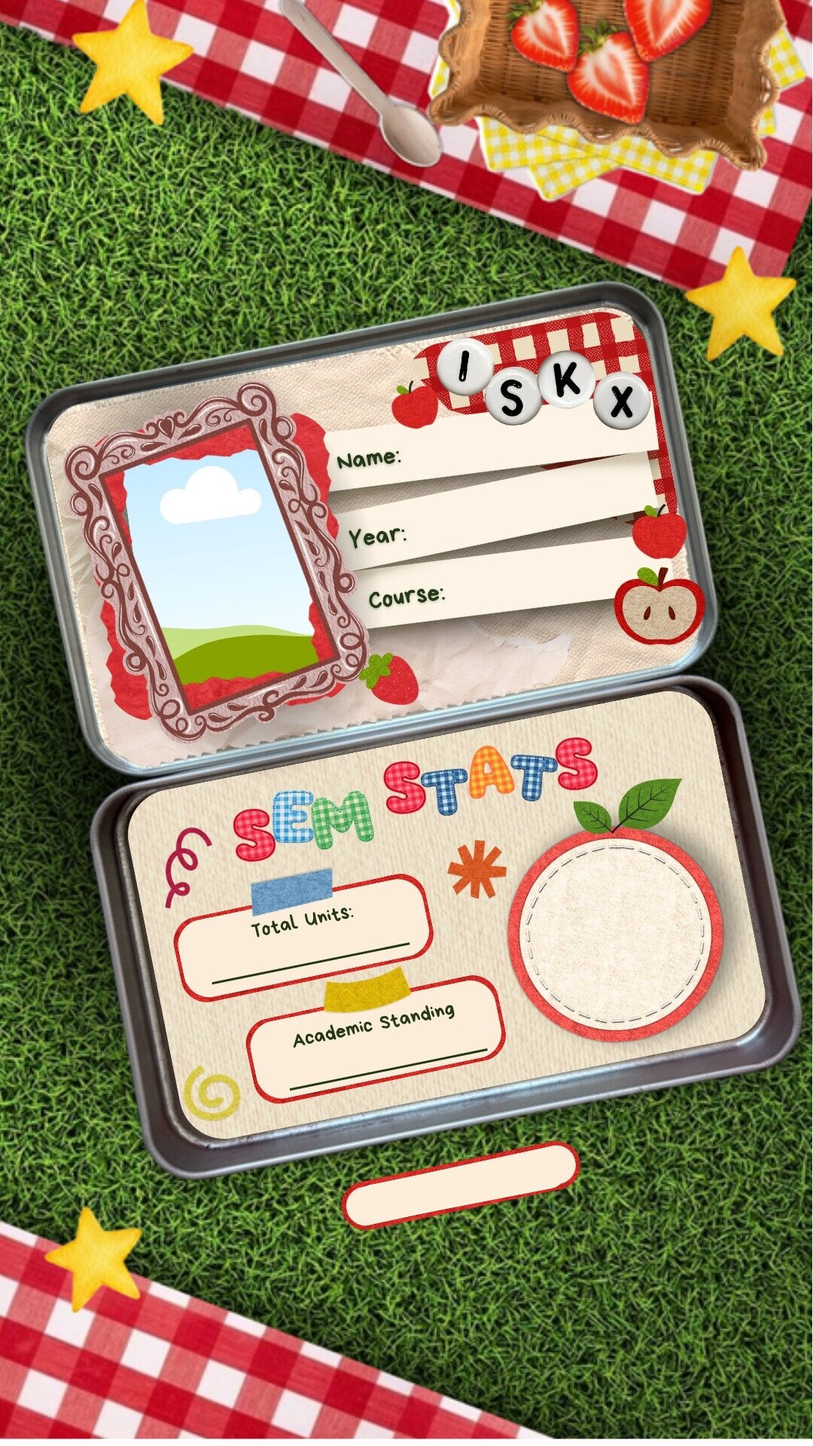
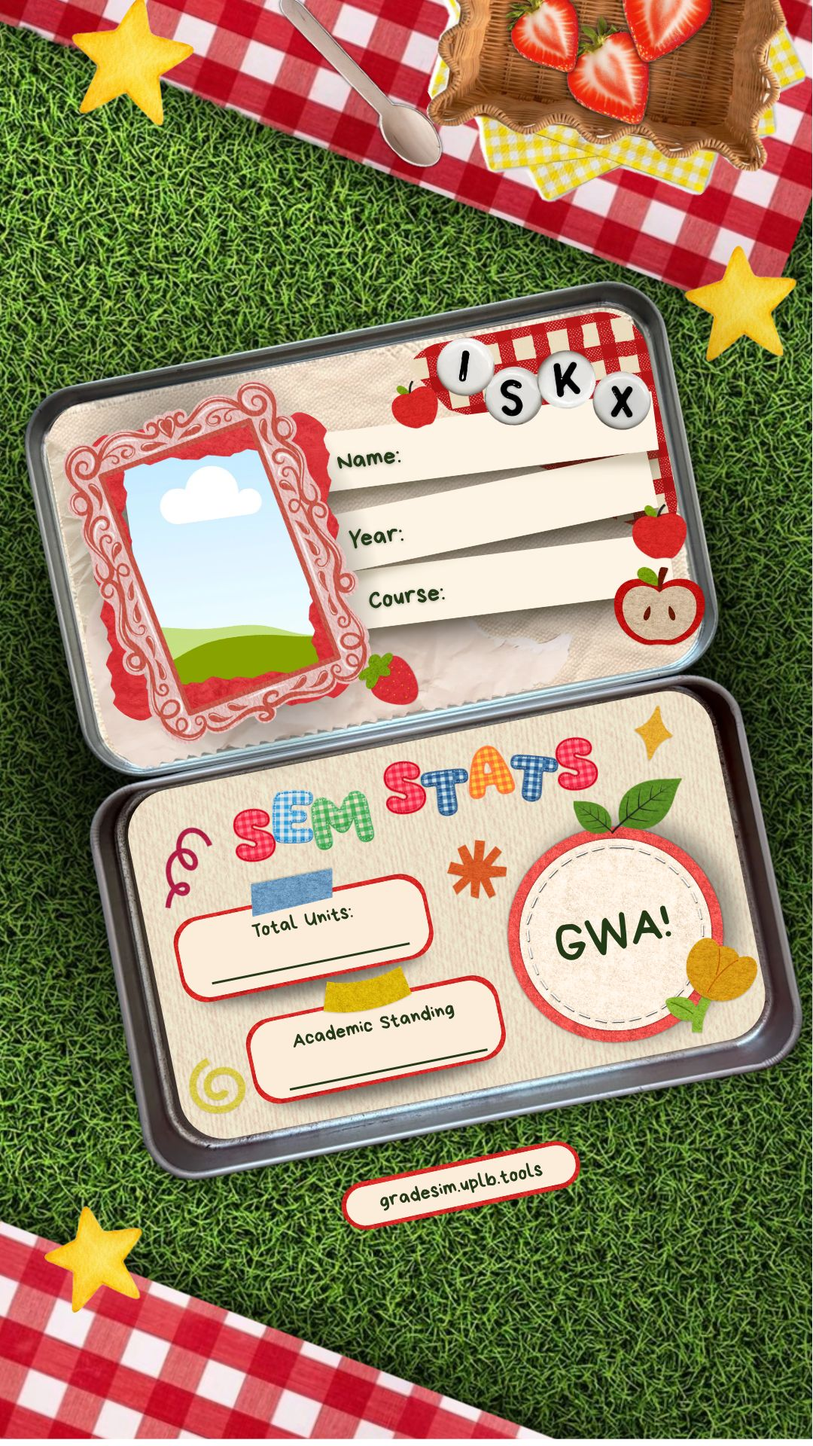
fix(wrapped): updated sem stats art (#329)
* fix(wrapped): updated sem stats art

- Reann's updated SEM STATS tin
- the GWA label and the link are printed on the art, so they're no longer drawn
- the GWA and the hidden-GWA star fit the new tray
- changelog section 2.1.35

* fix(wrapped): credit Reann for the card art

diff --git a/extension/src/popup.js b/extension/src/popup.js
@@ -1109,7 +1109,7 @@ const tinImages = {};
 const bareLabel = label => label.replace(/^\P{L}+/u, '');
 const FRAMES = { sem: 'tin-stats', id: 'tin-id', tin: 'tin', note: 'tin', tray: 'tray', open: 'tin-red' };
 const INK = '#1c1917', SOFT = '#4a3f3c', RED = '#7b1113', URL = 'gradesim.uplb.tools';
-const CREDIT = 'Design by Reann Vargas and Danica Manadong';
+const CREDIT = 'Design by Reann Vargas';
 
 // Reann Vargas's pages. Each tin, tray and note is tilted, so text is drawn turned with it.
 async function drawTinFrame(canvas, p) {
@@ -1226,12 +1226,10 @@ async function drawTinFrame(canvas, p) {
     ctx.textAlign = 'center';
     at(414, 1274, -0.19, () => text(String(p.units), 800, 40, INK, 0, 220));
     at(515, 1404, -0.19, () => text(p.title, 800, 40, /Scholar$/.test(p.title) ? RED : INK, 0, 250));
-    at(817, 1245, -0.1, () => {
-      if (!g) return star(0, 0, 80, 0);
-      text('GWA', 700, 32, SOFT, -48);
-      text(g, 800, 72, RED, 30, 210);
+    at(817, 1320, -0.1, () => {
+      if (!g) return star(0, -20, 35, 0);
+      text(g, 800, 64, RED, 0, 210);
     });
-    at(612, 1575, -0.193, () => text(URL, 700, 32, INK, 11, 260));
     return canvas;
   }
 

diff --git a/CHANGELOG.md b/CHANGELOG.md
@@ -1,6 +1,12 @@
 # Changelog
 
-## 2.1.34 (unreleased)
+## 2.1.35 (unreleased)
+
+### Fixes
+- The sem stats card uses Reann Vargas's updated art. The GWA and the link are no longer drawn twice, and the GWA and the hidden-GWA star fit the new tray.
+- The Wrapped cards credit Reann Vargas, who drew the art.
+
+## 2.1.34 (2026-11-21)
 
 ### Fixes
 - BS Economics' two Language Elective rows take only a foreign language course (French, Japanese or Spanish), like BA Communication Arts' foreign language elective.
